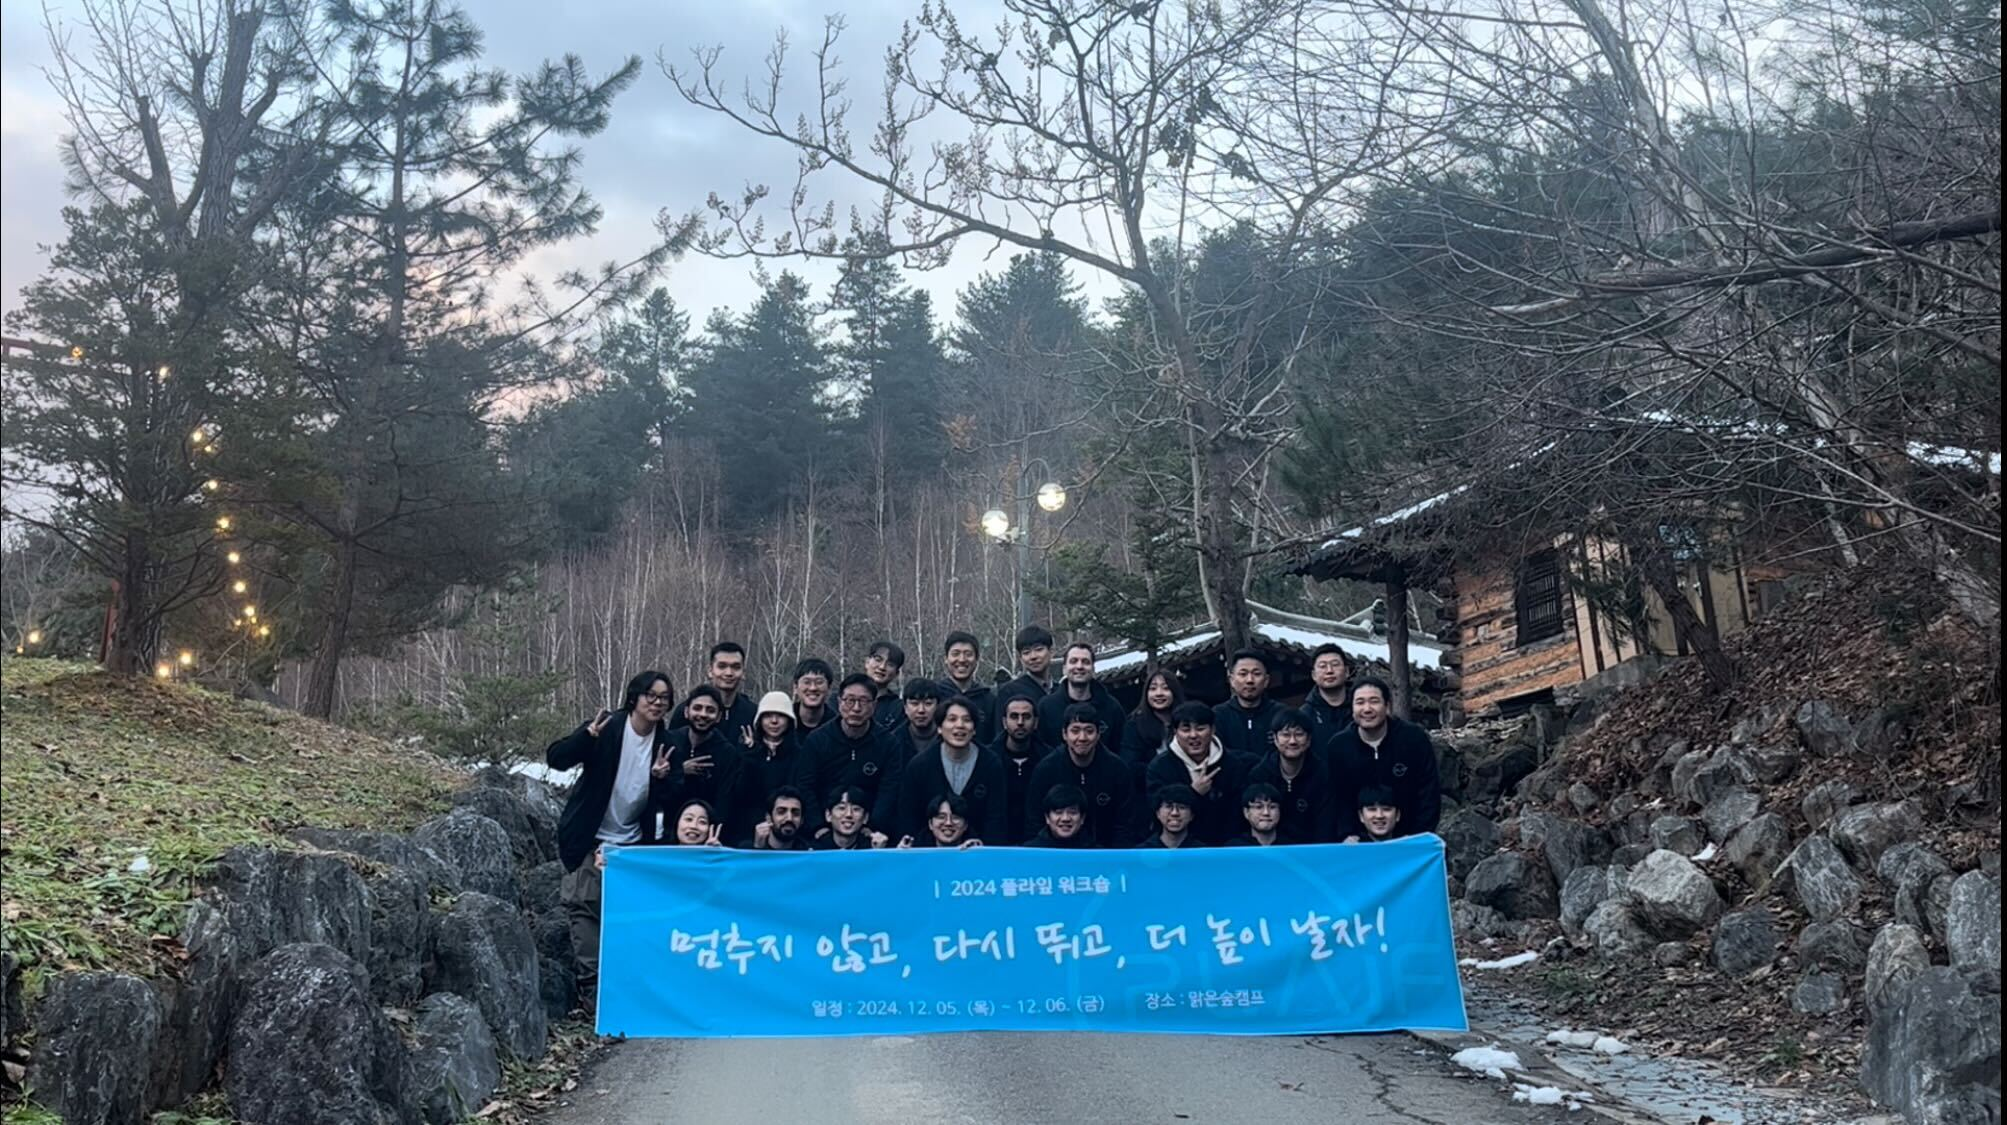
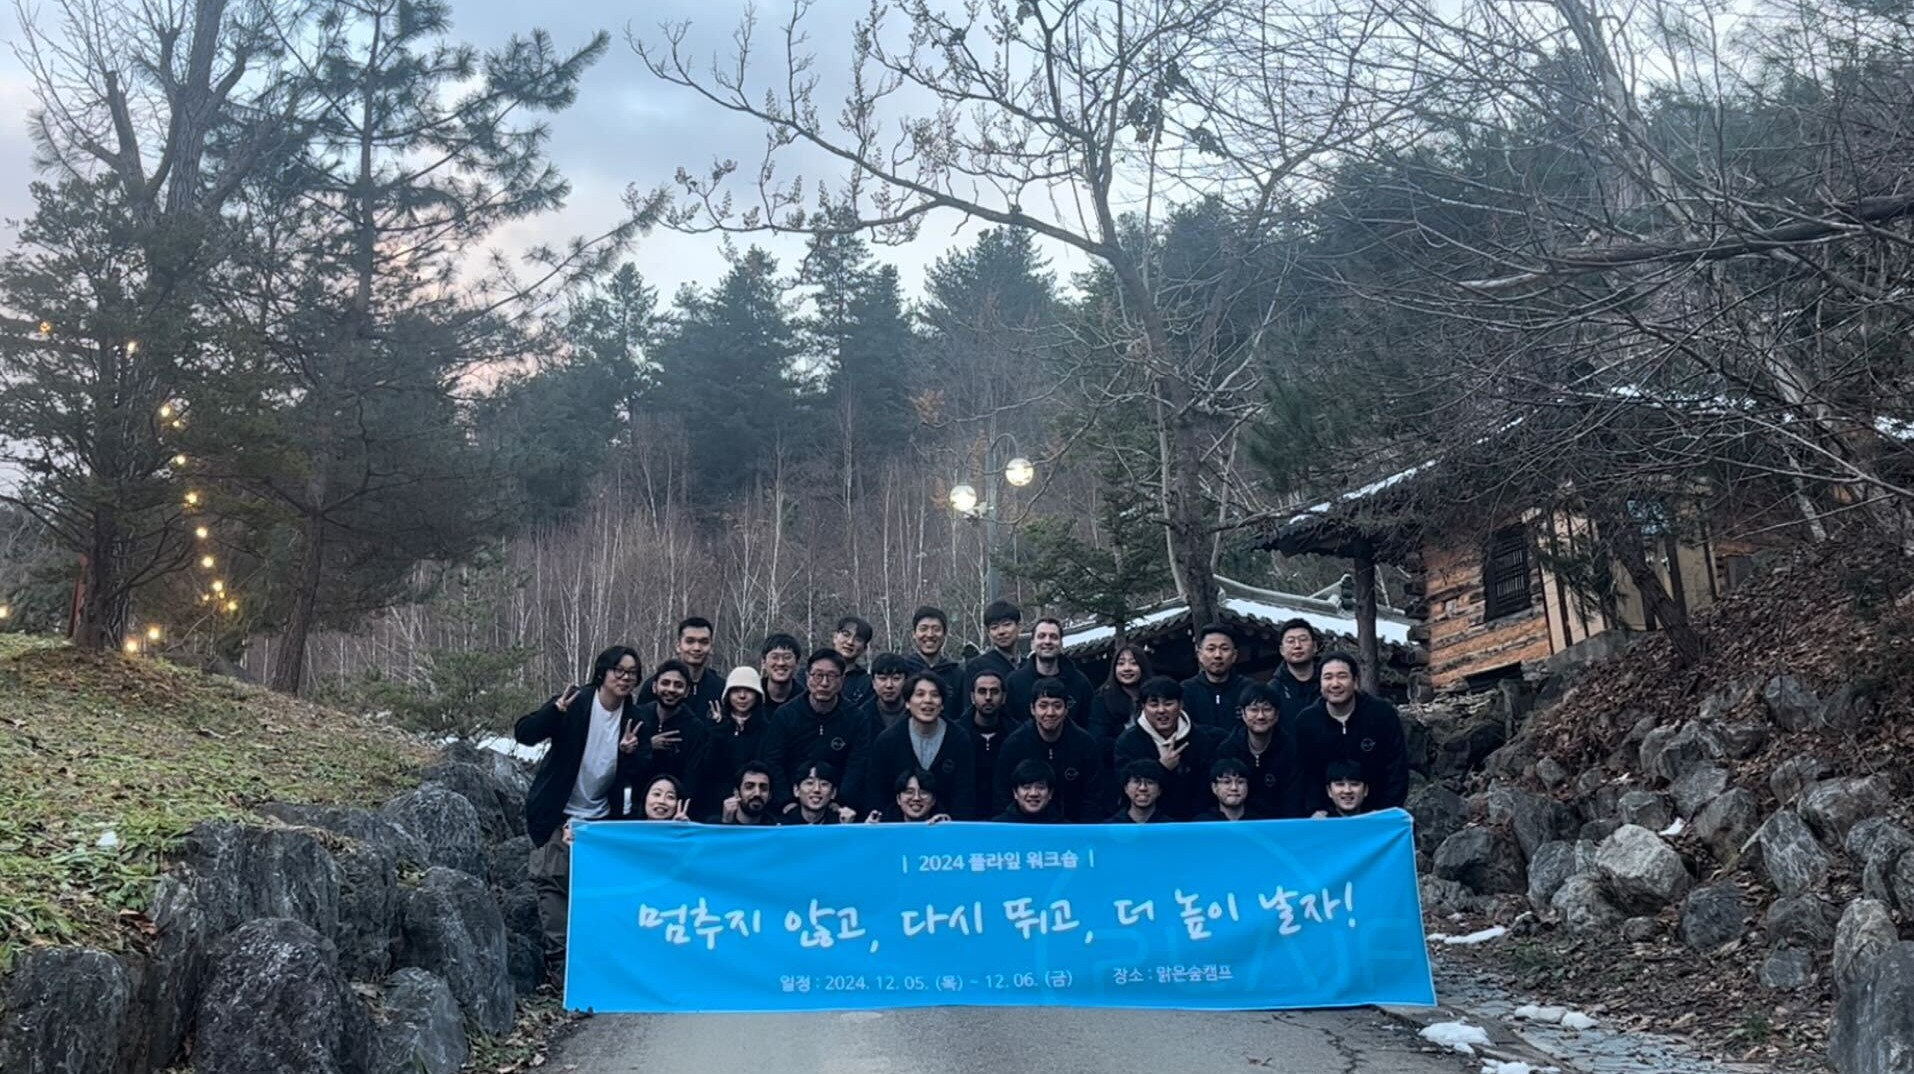
feat: handling ex-plaifer - update main image - update sw image - move eddie.md

diff --git a/profile/software/software.md b/profile/software/software.md
@@ -1,13 +1,12 @@
 # 🖥 Team Software
 
-![Software](/assets/software/main1.png)
+![Software](/assets/software/main2.png)
 
 플라잎 SW 제품화를 담당하는 팀으로 GUI, 리눅스 플랫폼 개발, DevOps 등의 업무를 수행합니다.
 
 ## 👥 Members
 
 - [🐰 이주성](/profile/software/members/jusung.md)
-- [🐲 에디](/profile/software/members/eddie.md)
 - [🐯 박종우](/profile/software/members/jongwoo.md)
 - [🐧 윤군재](/profile/software/members/gunjae.md)
 - [😃 오소진](/profile/software/members/sojin.md)
